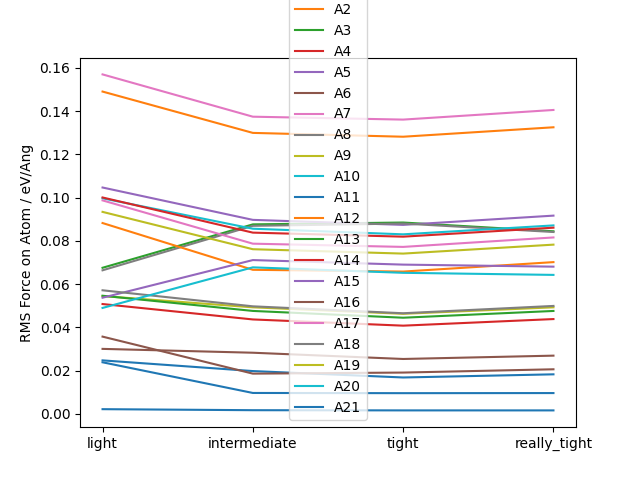
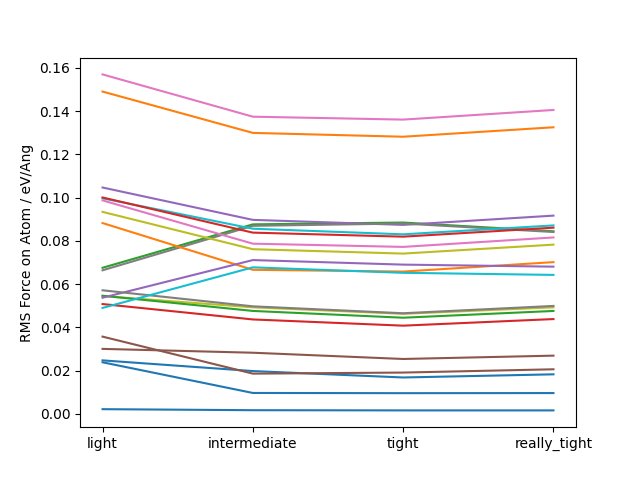
Fixed some FHI-aims convergence test outputs

Changed region(s): [[0.4375, 0.1875, 0.5938, 0.875], [0.4375, 0.0625, 0.5625, 0.1562], [0.4688, 0.0, 0.5625, 0.0312]]

diff --git a/FHI-aims/convergence_tests/analysis.py b/FHI-aims/convergence_tests/analysis.py
@@ -23,9 +23,13 @@ for j in range(np.shape(frms)[1]):
     plt.plot(blist, frms[:, j], label=f'A{j+1}')
 
 plt.ylabel('RMS Force on Atom / eV/Ang')
-plt.legend()
+# plt.legend()
 plt.savefig('f_conv.png', dpi=100)
 
+print('Analysis results - RMS force per atom\n')
 print('Frms (really_tight) - Frms (tight):')
+diffs = np.zeros(np.shape(frms)[1])
 for j in range(np.shape(frms)[1]):
-    print(f'A{j+1}: {frms[-1, j] - frms[-2, j]}')
+    diffs[j] = frms[-1, j] - frms[-2, j]
+    print(f'A{j+1}: {diffs[j]}')
+print(f'\nMax. RMS force difference between tight and really_tight basis sets: {max(diffs)}')
